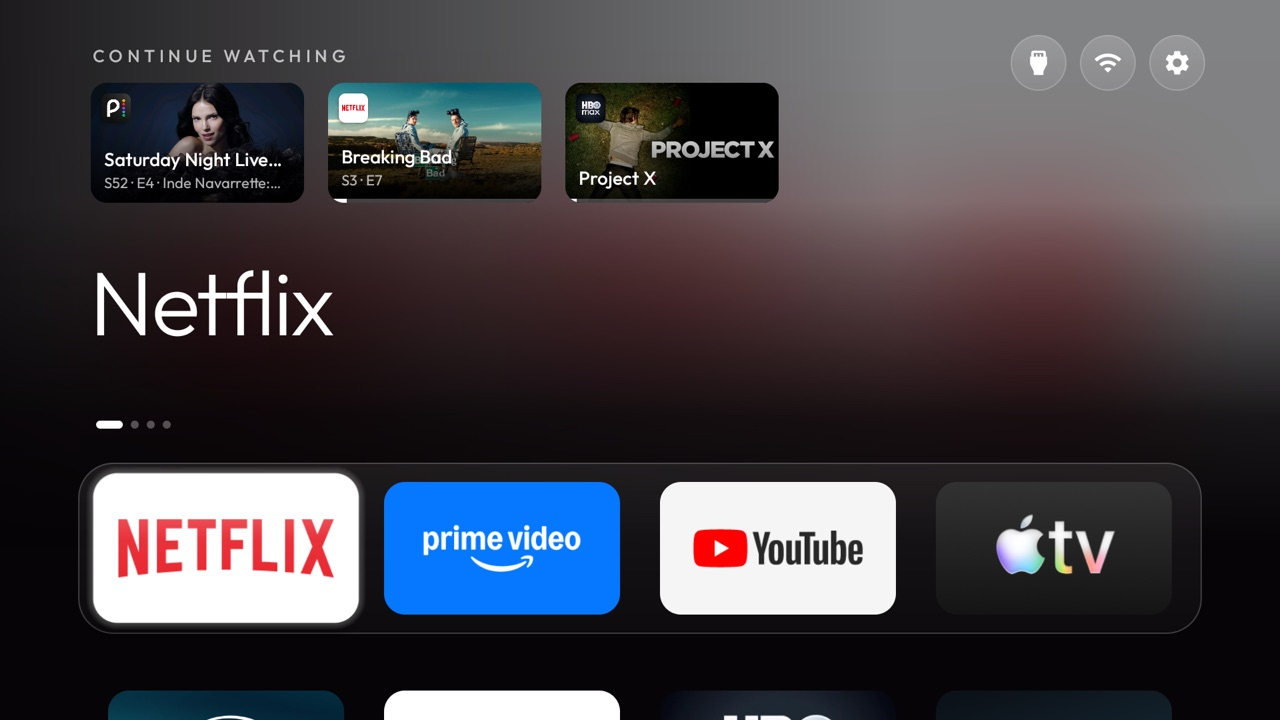
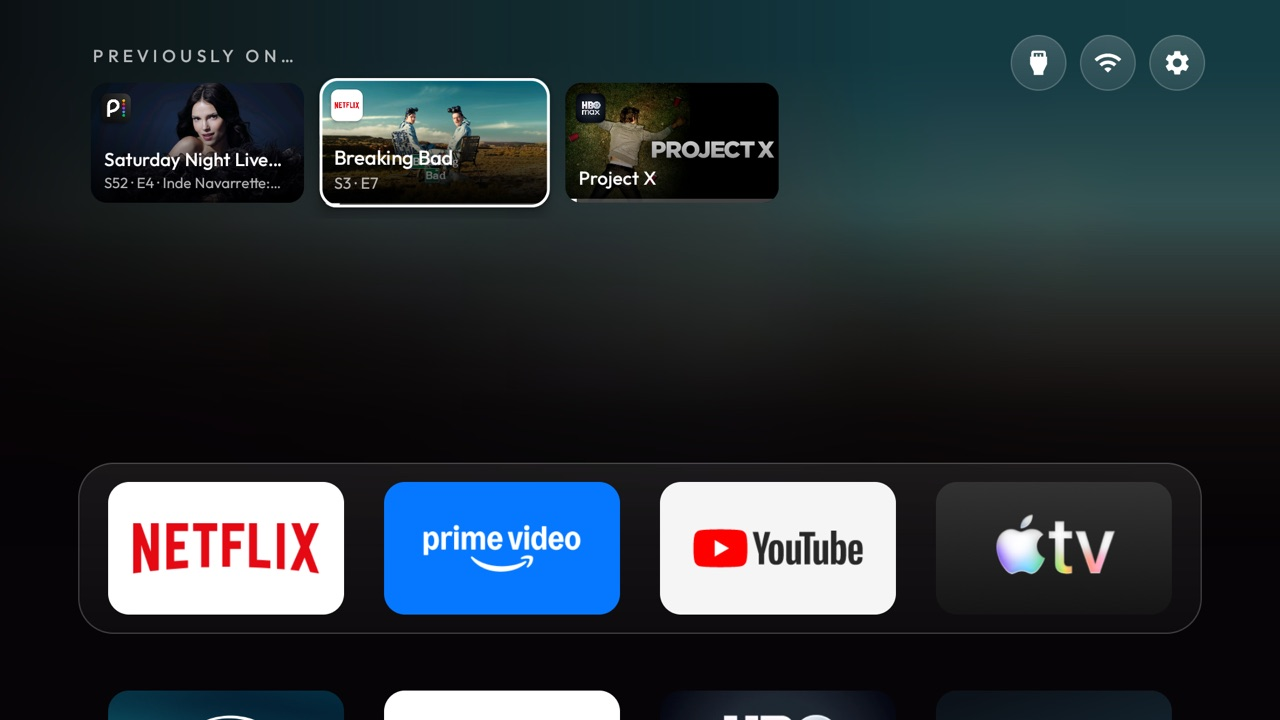
FORK.md: "Previously On…" and continue_backdrop, with a new screenshot

diff --git a/FORK.md b/FORK.md
@@ -5,16 +5,21 @@ Continue watching row from [burnhamrobertp's fork](https://github.com/burnhamrob
 (itself built on [gwiersma](https://github.com/gwiersma)'s row) onto today's upstream launcher, with a header
 that has no clock, date or greeting. Feature request upstream: [#4407](https://github.com/Gathin23/cleanyourtv/issues/4407).
 
-![Home on a TCL S551G: the Continue watching row with real posters, episodes and progress, above the shelf theme](docs/fork/home.jpg)
+![Home on a TCL S551G: the "Previously On…" row with real posters, episodes and progress, over a blur of the focused card's poster](docs/fork/home.jpg)
 
 **Tested on:** TCL S551G (US S5; G10, `G10_4K_US_NF`), Google TV 12, `STT2.230203.001`, launcherx disabled.
 Prime Video, Netflix, Peacock, Max, Disney+ and Apple TV publish Watch Next rows there; every poster is `https://`.
 
 ## What it adds on top of upstream
 
-- **Continue watching row** (`continue_watching` on in `config.xml`): the system's Watch Next table, one card per
-  show with its season, episode and a progress bar, engaged in the last 7 days. **Still artwork only: nothing
-  autoplays.** OK opens the app at that title. burnhamrobertp's commits are kept as they were.
+- **Continue watching row** (`continue_watching` on in `config.xml`), captioned **"Previously On…"**: the system's
+  Watch Next table, one card per show with its season, episode and a progress bar, engaged in the last 7 days.
+  **Still artwork only: nothing autoplays.** OK opens the app at that title. burnhamrobertp's commits are kept as
+  they were.
+- **`continue_backdrop`** (`config.xml` or a theme): what fills the screen behind a focused card. `none` (dark,
+  default), `heavy` (the poster reduced to its colours and a smooth gradient, in `shelf`), `soft` (a lighter blur),
+  `blur` (the shelf's app-art wash) or `poster` (the poster itself). The apps here publish one poster per row and
+  no `thumbnail_uri`, so the backdrop is episode art only when the app's poster is (Peacock's SNL is).
 - **Real posters, launcher still offline.** [`addons/posters`](addons/posters/) (9 KB, no screen) holds `INTERNET`
   and serves posters to apps signed with its own key; without it, cards show the app's banner.
 - **`show_clock`** (upstream PR [#4399](https://github.com/Gathin23/cleanyourtv/pull/4399)): `false` hides the
